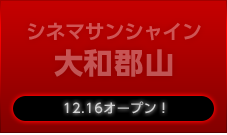
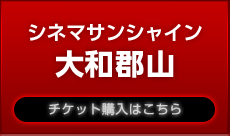
LP更新

diff --git a/lp/4dx/index_bk.html b/lp/4dx/index_bk.html
@@ -62,14 +62,14 @@ src="https://www.facebook.com/tr?id=233509890323398&ev=PageView&noscript=1"
                         <img src="/lp/4dx/images/kongetuno.png" alt="今月のオススメ映画はコレ!!">
                     </h2>
                     <div class="header">
-                        <h3>ローグ・ワン/スター・ウォーズ・ストーリー</h3>
-                        <p>12月16日(金)公開</p>
+                        <h3>ファンタスティック・ビーストと魔法使いの旅</h3>
+                        <p>11月23日(祝・水)公開</p>
                     </div>
-                    <p class="serifu-left">４DXで私、<br>フォースを<br>感じちゃった～</p>
-                    <p class="serifu-right">香織の意見はともかく<br>確かに本当に自分が<br>戦ってる<br>みたいだったわ</p>
+                    <p class="serifu-left">4ＤＸで私<br>魔法使いに<br>なっちゃた～</p>
+                    <p class="serifu-right">香織の意見はともかく<br>確かに本当に自分が<br>魔法を使っている<br>みたいだったわ</p>
                     <img src="/lp/4dx/images/left_ilasuto.png" class="kyara-left">
                     <img src="/lp/4dx/images/right_irasuto.png" class="kyara-right">
-                    <iframe width="626" height="352" src="https://www.youtube.com/embed/3lf_Bf3SAsU?rel=0&amp;controls=0" frameborder="0" allowfullscreen></iframe>
+                    <iframe width="626" height="352" src="https://www.youtube.com/embed/dzoe9IbV9cY" frameborder="0" allowfullscreen></iframe>
                     <ul>
                         <li>
                             <a href="http://www.cinemasunshine.co.jp/theater/heiwajima/"><img src="/lp/4dx/images/bottan_heiwa.png" alt="シネマサンシャイン平和島"></a>
@@ -80,7 +80,7 @@ src="https://www.facebook.com/tr?id=233509890323398&ev=PageView&noscript=1"
                         <li>
                             <a href="http://www.cinemasunshine.co.jp/theater/masaki/"><img src="/lp/4dx/images/bottan_emifuru.png" alt="シネマサンシャインエミフルMASAKI"></a>
                         </li>
-                        <li class="last"><a href="http://www.cinemasunshine.co.jp/theater/yamatokoriyama/"><img src="/lp/4dx/images/bottan_yamato.png" alt="シネマサンシャイン大和郡山"></a></li>
+                        <li class="last"><img src="/lp/4dx/images/bottan_yamato.png" alt="シネマサンシャイン大和郡山"></li>
                     </ul>
                 </div>
             </div>
@@ -90,12 +90,25 @@ src="https://www.facebook.com/tr?id=233509890323398&ev=PageView&noscript=1"
                 </h2>
                 <div class="lineup-naka">
                     <div class="lineup-naka-naka">
+                        <h3>ローグ・ワン/スター・ウォーズ・ストーリー</h3>
+                        <div class="lineup-naka-left">
+                            <p class="text">
+                                物語の舞台は、『スター・ウォーズ エピソード4／新たなる希望』の少し前。銀河全体を脅かす帝国軍の究極の兵器＜デス・スター＞。無法者たちによる反乱軍の極秘チーム＜ロ―グ・ワン＞に加わった女戦士ジン・アーソは、様々な葛藤を抱えながら不可能なミッションに立ち向かう。その運命のカギは、天才科学者であり、何年も行方不明になっている彼女の父に隠されていた・・・。
+                            </p>
+                            <p class="date">12月16日(金)公開予定</p>
+                        </div>
+                        <div class="lineup-naka-right">
+                            <img src="/lp/4dx/images/picture01.jpg" alt="ローグ・ワン／スター・ウォーズ・ストーリー">
+                            <p class="copy">©2016 Lucasfilm Ltd. All Rights Reserved.</p>
+                        </div>
+                    </div>
+                    <div class="lineup-naka-naka">
                         <h3>バイオハザード：ザ・ファイナル</h3>
                         <div class="lineup-naka-left">
                             <p class="text">
                                 カプコンのホラーアクションアドベンチャーゲーム『バイオハザードシリーズ』を原作とした、実写映画版のシリーズ第6作かつ最終作。 人類生存の最後の希望となったアリスは、悪夢の元凶となったラクーン・シティの秘密研究所「ハイブ」へと舞い戻る。そこで待ち受けていたのは、生き残った人々にとどめの一撃を加えようと力を蓄えていたアンブレラ社だった……
                             </p>
-                            <p class="date">大ヒット上映中</p>
+                            <p class="date">12月23日(祝・金)公開予定 </p>
                         </div>
                         <div class="lineup-naka-right">
                             <img src="/lp/4dx/images/picture02.jpg" alt="バイオハザード：ザ・ファイナル">
@@ -103,24 +116,6 @@ src="https://www.facebook.com/tr?id=233509890323398&ev=PageView&noscript=1"
                         </div>
                     </div>
                 </div>
-
-                <div class="lineup-naka">
-                    <div class="lineup-naka-naka">
-                        <h3>マッドマックス 怒りのデス・ロード　ブラック＆クローム エディション</h3>
-                        <div class="lineup-naka-left">
-                            <p class="text">
-                                石油も、そして水も尽きかけた世界。主人公は、愛する家族を奪われた元・警官マックス。資源を独占し、恐怖と暴力で民衆を支配するジョーの軍団に捕われたマックスは、反逆を企てるジョーの右腕フュリオサ、配下の全身白塗りの男ニュークスと共に、逃走を開始する。
-マックスと2人の反逆者、自由と生き残りを賭けた3人のMADな戦いとは。絶体絶命のピンチを迎えた時、彼らの決死の反撃がいま始まる！
-                            </p>
-                            <p class="date">2017年1月14日(土)公開予定 </p>
-                        </div>
-                        <div class="lineup-naka-right">
-                            <img src="/lp/4dx/images/madmax.jpg" alt="マッドマックス 怒りのデス・ロード　ブラック＆クローム エディション">
-                            <p class="copy">(C)2015 VILLAGE ROADSHOW FILMS (BVI) LIMITED</p>
-                        </div>
-                    </div>
-                </div>
-
             </div>
         </div>
         <div class="bnr-4dx">

diff --git a/lp/imax/index_bk.html b/lp/imax/index_bk.html
@@ -55,14 +55,14 @@ src="https://www.facebook.com/tr?id=233509890323398&ev=PageView&noscript=1"
             <div class="recommend-inner">
                 <h2><img src="/lp/imax/images/recommend_title.png" width="447" height="44" alt="今月のオススメ映画はコレ!!"></h2>
                 <div class="recommend-header">
-                    <h3>ローグ・ワン/スター・ウォーズ・ストーリー</h3>
-                    <div class="date">12月16日(金)公開</div>
+                    <h3>ファンタスティック・ビーストと魔法使いの旅</h3>
+                    <div class="date">11月23日(祝・水)公開</div>
                 </div>
                 <img class="illust-02" src="/lp/imax/images/recommend_img_02.png" width="146" height="272" alt="">
                 <img class="illust-01" src="/lp/imax/images/recommend_img_01.png" width="106" height="285" alt="">
-                <p class="conversation-01">『エピソード４／新たなる<br>希望』の直前を描く、アナ<br>ザー・ストーリーこの映画<br>の魅力はIMAXで見ないと<br>語れないね！</p>
+                <p class="conversation-01">JKローリング書き下し<br>オリジナルストーリー！<br> この映画の魅力はIMAX<sup>®</sup>で<br> 見ないと語れないね！</p>
                 <p class="conversation-02">あんたもまだ<br>見てないでしょ！</p>
-                <iframe width="626" height="352" src="https://www.youtube.com/embed/3lf_Bf3SAsU?rel=0&amp;controls=0" frameborder="0" allowfullscreen></iframe>
+                <iframe width="626" height="352" src="https://www.youtube.com/embed/dzoe9IbV9cY" frameborder="0" allowfullscreen></iframe>
                 <ul>
                     <li>
                         <a href="/theater/tsuchiura/"><img src="/lp/imax/images/recommend_btn_tsuchiura.png" width="230" height="136" alt="シネマサンシャイン土浦 チケット購入はこちら"></a>
@@ -80,31 +80,17 @@ src="https://www.facebook.com/tr?id=233509890323398&ev=PageView&noscript=1"
             <h2><img src="/lp/imax/images/lineup_title.png" width="357" height="39" alt="今後のラインナップ"></h2>
             <ul>
                 <li>
-                    <h3>君の名は。</h3>
+                    <h3>ローグ・ワン/スター・ウォーズ・ストーリー</h3>
                     <div class="left">
-                        <p>山深い田舎町に暮らす三葉は都会に憧れを抱く女子高生。“来世は東京のイケメン男子にしてほしい”と願う彼女は、自分が東京で暮らす男の子になる夢を見る。一方、東京で暮らす男子高生の瀧も行った事もない山奥の町で自分が女子高生になっている奇妙な夢を見る。不思議な夢を見続けるうちに、2人は入れ替わっている事に気付く。
+                        <p>物語の舞台は、『スター・ウォーズ エピソード4／新たなる希望』の少し前。銀河全体を脅かす帝国軍の究極の兵器＜デス・スター＞。無法者たちによる反乱軍の極秘チーム＜ロ―グ・ワン＞に加わった女戦士ジン・アーソは、様々な葛藤を抱えながら不可能なミッションに立ち向かう。その運命のカギは、天才科学者であり、何年も行方不明になっている彼女の父に隠されていた・・・。
                         </p>
-                        <div class="date">2017年1月13日(金)公開予定</div>
+                        <div class="date">12月16日(金)公開予定</div>
                     </div>
                     <div class="right">
-                        <img src="/lp/imax/images/kiminonawa.jpg" width="464" height="249" alt="君の名は。">
-                        <div class="credit">©2016「君の名は。」製作委員会</div>
+                        <img src="/lp/imax/images/img_01.jpg" width="464" height="249" alt="">
+                        <div class="credit">©2016 Lucasfilm Ltd. All Rights Reserved.</div>
                     </div>
                 </li>
-
-                <li>
-                    <h3>ドクター・ストレンジ</h3>
-                    <div class="left">
-                        <p>上から目線の天才外科医ドクター・ストレンジ。突然の交通事故により、神の手を失った彼を甦らせたのは─魔術。指導者エンシェント・ワンのもと、過酷な修行をかさね人智を超えた力を手にしたストレンジだったが、世界を破滅へと導く闇の魔術の存在を知ったとき、彼は壮絶な魔術の戦いに巻きこまれてゆく。しかし、“人を決して傷つけない”医者としての信念が、敵であってもその命を奪うことをためらわせる。彼は、いかにして闇の魔術に立ち向かい、人々の命を救うのか？ドクター・ストレンジにしかできない、常識も次元も超えた戦いが始まる。
-                        </p>
-                        <div class="date">2017年1月13日(金)公開予定</div>
-                    </div>
-                    <div class="right">
-                        <img src="/lp/imax/images/drstrange.jpg" width="464" height="249" alt="ドクター・ストレンジ">
-                        <div class="credit">©2016 Marvel. All Rights Reserved.</div>
-                    </div>
-                </li>
-
             </ul>
         </div>
         <div class="bnr">

diff --git a/lp/imax/css/style.css b/lp/imax/css/style.css
@@ -113,7 +113,7 @@ body{
 
 .recommend .conversation-01{
     position: absolute;
-    top: 203px;
+    top: 185px;
     left: 19px;
 }
 
